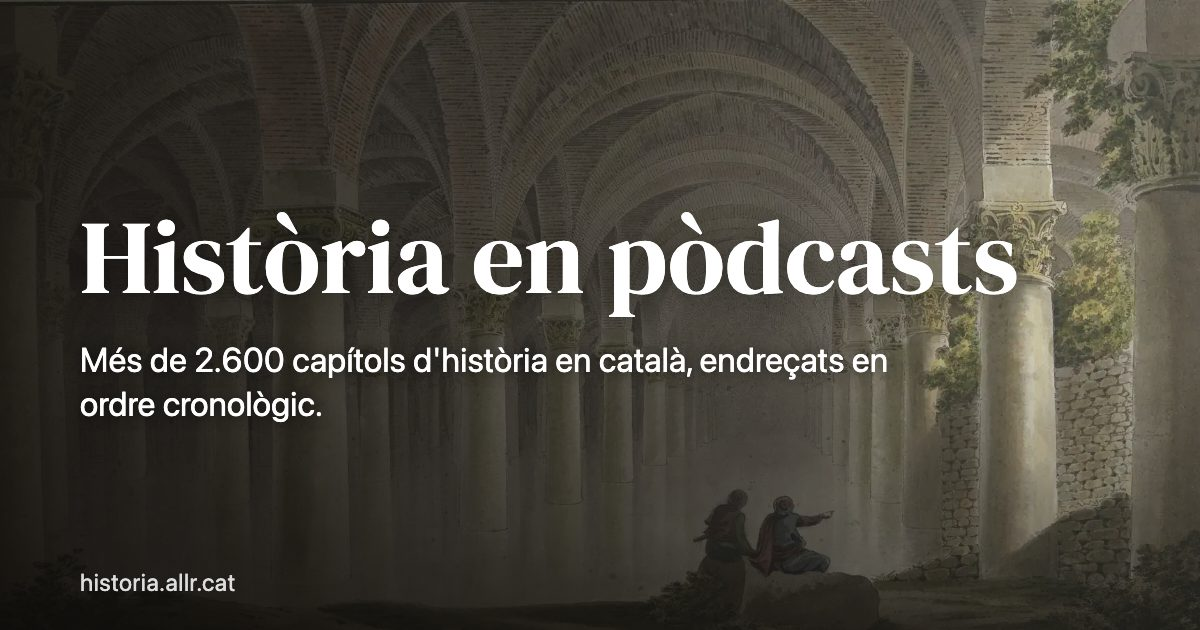
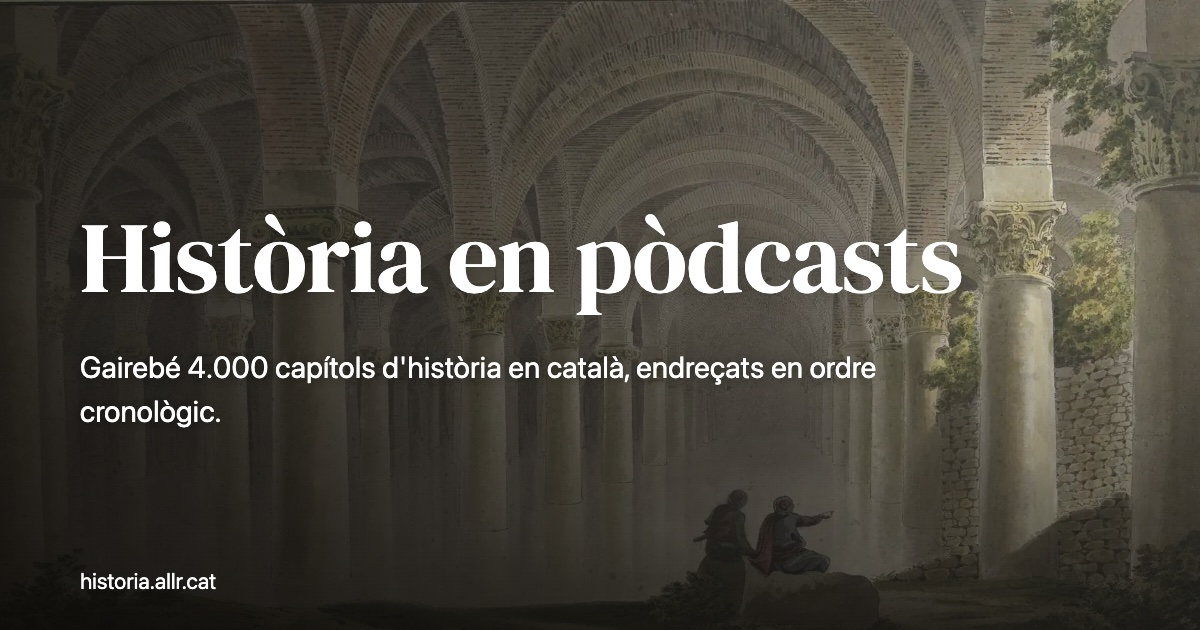
Filtres de mòbil en dues files (desplegables a dalt, eines a sota) sense desplaçament lateral; targeta per a xarxes amb «Gairebé 4.000 capítols» i plantilla per regenerar-la

diff --git a/index.html b/index.html
@@ -5,22 +5,22 @@
 <meta name="viewport" content="width=device-width, initial-scale=1.0, viewport-fit=cover">
 <meta name="format-detection" content="telephone=no">
 <title>Història en pòdcasts · allr.cat</title>
-<meta name="description" content="Més de 2.600 capítols de pòdcasts d'història en català (A les Portes de Troia, En Guàrdia, Sons de l'edat mitjana, Institut d'Humanitats) endreçats en ordre cronològic.">
+<meta name="description" content="Gairebé 4.000 capítols de pòdcasts i conferències d'història en català (A les Portes de Troia, En Guàrdia, Sons de l'edat mitjana, Institut d'Humanitats, Ateneu Barcelonès) endreçats en ordre cronològic.">
 <link rel="canonical" href="https://historia.allr.cat/">
 <meta property="og:type" content="website">
 <meta property="og:url" content="https://historia.allr.cat/">
 <meta property="og:site_name" content="allr.cat">
 <meta property="og:locale" content="ca_ES">
 <meta property="og:title" content="Història en pòdcasts">
-<meta property="og:description" content="Més de 2.600 capítols d'història en català, endreçats en ordre cronològic.">
-<meta property="og:image" content="https://historia.allr.cat/og-image.jpg">
+<meta property="og:description" content="Gairebé 4.000 capítols d'història en català, endreçats en ordre cronològic.">
+<meta property="og:image" content="https://historia.allr.cat/og-image.jpg?v=2">
 <meta property="og:image:width" content="1200">
 <meta property="og:image:height" content="630">
 <meta property="og:image:alt" content="Història en pòdcasts, sobre una aquarel·la de la Cisterna Basílica de Constantinoble">
 <meta name="twitter:card" content="summary_large_image">
 <meta name="twitter:title" content="Història en pòdcasts">
-<meta name="twitter:description" content="Més de 2.600 capítols d'història en català, endreçats en ordre cronològic.">
-<meta name="twitter:image" content="https://historia.allr.cat/og-image.jpg">
+<meta name="twitter:description" content="Gairebé 4.000 capítols d'història en català, endreçats en ordre cronològic.">
+<meta name="twitter:image" content="https://historia.allr.cat/og-image.jpg?v=2">
 <link rel="preload" href="fonts/dm-serif-display.woff2" as="font" type="font/woff2" crossorigin>
 <style>
 /* Fonts locals (OFL), subconjuntades amb les lletres del títol */
@@ -366,7 +366,13 @@ a { color: inherit; }
   .tabs { flex-wrap: nowrap; overflow-x: auto; scrollbar-width: none; gap: 0 0.9rem; }
   .tabs::-webkit-scrollbar { display: none; }
   .tabs button:last-child { margin-right: 1.5rem; }
-  .row-tools { gap: 0.3rem; padding-left: 0; border-left: 0; flex-basis: 100%; justify-content: flex-end; }
+  /* Mòbil: sense desplaçament lateral; desplegables en una fila de 4 i eines a sota */
+  .controls-bar .controls-row:first-child { flex-wrap: wrap; overflow: visible; gap: 0.45rem; }
+  .controls-bar .controls-row:first-child .filters { display: grid; grid-template-columns: repeat(4, minmax(0, 1fr)); flex: 1 1 100%; gap: 0.35rem; }
+  .controls-bar .controls-row:first-child .dd { min-width: 0; }
+  .dd-btn { padding: 0.2rem 0.35rem; }
+  .controls-bar .controls-row:first-child .row-tools { flex: 1 1 100%; margin-left: 0; padding: 0; border-left: 0; gap: 0.35rem; justify-content: flex-start; flex-wrap: wrap; }
+  .row-tools .clear { margin-left: auto; }
   .row-tools .tool, .row-tools .f-check { min-height: 32px; padding: 0.2rem 0.5rem; }
   .tabs button { min-height: 36px; }
   .dd-btn { min-height: 32px; }

diff --git a/scripts/og-image.html b/scripts/og-image.html
@@ -1,0 +1,21 @@
+<!doctype html>
+<!-- Plantilla de la targeta per a xarxes (og-image.jpg, 1200×630). Canviar el número i capturar:
+     python3 -m http.server 8765  (des de l'arrel)  i després
+     Chrome --headless=new --hide-scrollbars --window-size=1200,630 --screenshot=og.png http://localhost:8765/scripts/og-image.html
+     sips -s format jpeg -s formatOptions 85 og.png --out og-image.jpg -->
+<meta charset="utf-8">
+<style>
+@font-face { font-family: 'DM Serif Display'; src: url(../fonts/dm-serif-display.woff2) format('woff2'); }
+* { margin: 0; box-sizing: border-box; }
+body { width: 1200px; height: 630px; overflow: hidden; color: #fff; font-family: -apple-system, BlinkMacSystemFont, 'Segoe UI', sans-serif;
+  background:
+    linear-gradient(90deg, rgba(10,8,6,.72) 0%, rgba(10,8,6,.45) 45%, rgba(10,8,6,.08) 80%),
+    linear-gradient(0deg, rgba(10,8,6,.7), rgba(10,8,6,.35) 30%, transparent 55%),
+    url('../preaulx-cisterna.webp') 50% 35% / cover no-repeat; }
+h1 { position: absolute; left: 80px; top: 205px; font-family: 'DM Serif Display', serif; font-weight: 400; font-size: 100px; letter-spacing: -0.01em; line-height: 1.05; text-shadow: 0 2px 24px rgba(0,0,0,.35); }
+p { position: absolute; left: 80px; top: 345px; width: 820px; font-size: 30px; line-height: 1.45; text-shadow: 0 1px 12px rgba(0,0,0,.4); }
+.url { position: absolute; left: 80px; bottom: 36px; font-size: 22px; }
+</style>
+<h1>Història en pòdcasts</h1>
+<p>Gairebé 4.000 capítols d'història en català, endreçats en ordre cronològic.</p>
+<div class="url">historia.allr.cat</div>
